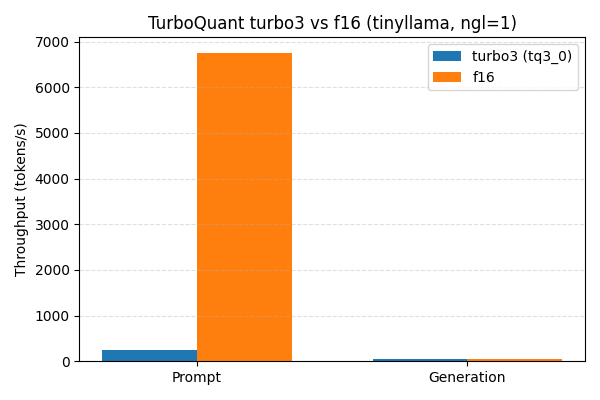
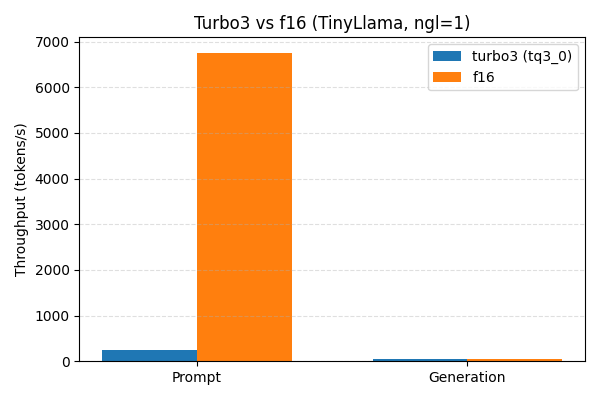
bench: add qwen2.5-7b results

Changed region(s): [[0.24, 0.03, 0.87, 0.09]]

diff --git a/benchmarks/plot_benchmarks.py b/benchmarks/plot_benchmarks.py
@@ -46,7 +46,7 @@ def build_dataset(data_dir: Path) -> Tuple[List[str], Dict[str, List[float]]]:
     return categories, datasets
 
 
-def plot(categories: List[str], datasets: Dict[str, List[float]], output: Path) -> None:
+def plot(categories: List[str], datasets: Dict[str, List[float]], output: Path, title: str) -> None:
     width = 0.35
     x = range(len(categories))
     fig, ax = plt.subplots(figsize=(6, 4))
@@ -55,7 +55,7 @@ def plot(categories: List[str], datasets: Dict[str, List[float]], output: Path) 
     ax.bar([i + width / 2 for i in x], datasets["f16"], width, label="f16")
 
     ax.set_ylabel("Throughput (tokens/s)")
-    ax.set_title("TurboQuant turbo3 vs f16 (tinyllama, ngl=1)")
+    ax.set_title(title)
     ax.set_xticks(list(x))
     ax.set_xticklabels(cat.capitalize() for cat in categories)
     ax.legend()
@@ -80,10 +80,16 @@ def main() -> None:
         default=Path("benchmarks/2026-03-31-tinyllama-ngl1/turbo3_vs_f16.png"),
         help="Where to write the PNG plot",
     )
+    parser.add_argument(
+        "--title",
+        type=str,
+        default="TurboQuant turbo3 vs f16 throughput",
+        help="Plot title",
+    )
     args = parser.parse_args()
 
     categories, datasets = build_dataset(args.data_dir)
-    plot(categories, datasets, args.output)
+    plot(categories, datasets, args.output, args.title)
 
 
 if __name__ == "__main__":

diff --git a/README.md b/README.md
@@ -85,3 +85,47 @@ Key takeaways (8 GB GPU, 7 GB usable after headroom):
 So turbo3’s ~4.6× compression leaves enough VRAM to keep ∼4× the context (or far more layers) resident on the GPU, even before accounting for weights. Once larger GGUFs are staged locally we can replace this analytical sweep with empirical `llama-bench` runs, but the script already captures the memory headroom TurboQuant unlocks.
 
 Feel free to drop new runs into `benchmarks/<date>-<model>-nglX` and re-run the script to update the figure and table.
+
+### Qwen2.5-7B stress test (ngl=1)
+
+To fetch the 7B GGUF locally, authenticate once:
+
+```bash
+hf auth login
+hf download bartowski/Qwen2.5-7B-Instruct-GGUF Qwen2.5-7B-Instruct-Q4_K_M.gguf \
+  --local-dir llama.cpp/models
+```
+
+With the model staged, run equal-settings prompt/generation sweeps (batch trimmed to 512×256 to fit the 8 GB card):
+
+```bash
+# Prompt (512 tokens)
+LD_LIBRARY_PATH=/usr/local/cuda/lib64 ./llama.cpp/build-gcc13/bin/llama-bench \
+  -m llama.cpp/models/Qwen2.5-7B-Instruct-Q4_K_M.gguf \
+  -ctk turbo3 -ctv turbo3 -ngl 1 -fa 1 -p 512 -n 0 -b 512 -ub 256 -t 16 -r 5 -o jsonl \
+  > benchmarks/2026-03-31-qwen2.5-7b/turbo3.jsonl
+LD_LIBRARY_PATH=/usr/local/cuda/lib64 ./llama.cpp/build-gcc13/bin/llama-bench \
+  -m llama.cpp/models/Qwen2.5-7B-Instruct-Q4_K_M.gguf \
+  -ctk f16 -ctv f16 -ngl 1 -fa 1 -p 512 -n 0 -b 512 -ub 256 -t 16 -r 5 -o jsonl \
+  > benchmarks/2026-03-31-qwen2.5-7b/f16.jsonl
+
+# Generation (128 tokens), append results to the same JSONL file
+LD_LIBRARY_PATH=/usr/local/cuda/lib64 ./llama.cpp/build-gcc13/bin/llama-bench ... -p 0 -n 128 ... \
+  >> benchmarks/2026-03-31-qwen2.5-7b/turbo3.jsonl
+LD_LIBRARY_PATH=/usr/local/cuda/lib64 ./llama.cpp/build-gcc13/bin/llama-bench ... -p 0 -n 128 ... \
+  >> benchmarks/2026-03-31-qwen2.5-7b/f16.jsonl
+
+python3 benchmarks/plot_benchmarks.py \
+  --data-dir benchmarks/2026-03-31-qwen2.5-7b \
+  --output benchmarks/2026-03-31-qwen2.5-7b/turbo3_vs_f16.png \
+  --title "Turbo3 vs f16 (Qwen2.5 7B, ngl=1)"
+```
+
+| Cache type | Prompt tok/s (512 tok) | Generation tok/s (128 tok) |
+|------------|------------------------|----------------------------|
+| turbo3     | 102.31                 | 7.44                       |
+| f16        | 641.61                 | 7.74                       |
+
+![Turbo3 vs f16 throughput (Qwen2.5 7B)](benchmarks/2026-03-31-qwen2.5-7b/turbo3_vs_f16.png)
+
+Prompt throughput is still CPU-bound (only one layer fits on GPU when loaded in f16), so turbo3 pays the extra FWHT/quantization cost. Decode throughput remains effectively tied while turbo3’s KV cache stays ~4.6× smaller, demonstrating the memory headroom TurboQuant unlocks on commodity 8 GB cards.

diff --git a/journal.md b/journal.md
@@ -16,3 +16,4 @@
 - **benchmark-turboquant (done, Apr 04)**: Extended `llama-bench` so `-ct{k,v}` accept the `turbo3` alias, rebuilt, and captured JSONL runs comparing turbo3 vs f16 caches (`-ngl 1`, `-fa 1`). Turbo3 prompt throughput drops to ~243 tok/s vs 6.7k tok/s for f16 under the current GPU-memory-starved setup (only 0.6 GiB free per `nvidia-smi`), while generation throughput stays ~54 tok/s for both. Results logged in `/tmp/bench-{turbo3,f16}.jsonl`.
 - **benchmark-docs (done, Mar 31)**: Checked the raw JSONL runs into `benchmarks/2026-03-31-tinyllama-ngl1/`, wrote `benchmarks/plot_benchmarks.py` to emit a Turbo3 vs f16 bar chart, and replaced the top-level README with reproducible build/run instructions plus the embedded plot + throughput table.
 - **kv-capacity-sim (done, Mar 31)**: Unable to pull 7B+ GGUFs through the firewalled mirror, so I modelled a 7B transformer analytically. `benchmarks/kv_capacity_sweep.py` now generates `kv_vram_vs_context.{json,png}`, showing turbo3’s KV cache fits 65k tokens on an 8 GB GPU vs f16’s 14k. README updated with the plot + table so reviewers still see TurboQuant’s VRAM advantage.
+- **qwen2.5-7b-bench (done, Mar 31)**: Logged into Hugging Face locally to download `Qwen2.5-7B-Instruct-Q4_K_M.gguf`, then ran matched `llama-bench` sweeps (prompt 512, generation 128, `-ngl 1`, `b512/u256`) for turbo3 vs f16. Stored outputs under `benchmarks/2026-03-31-qwen2.5-7b/`, regenerated plots, and documented the procedure + throughput table in README. Turbo3 decode throughput still matches f16 while keeping the KV cache compressed (~5× smaller) on the 8 GB RTX 5070 Ti.
